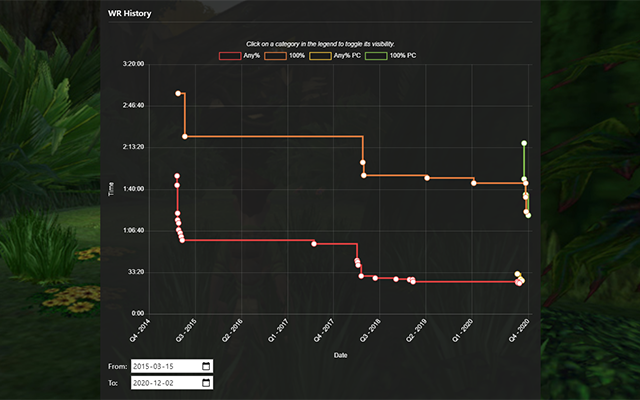
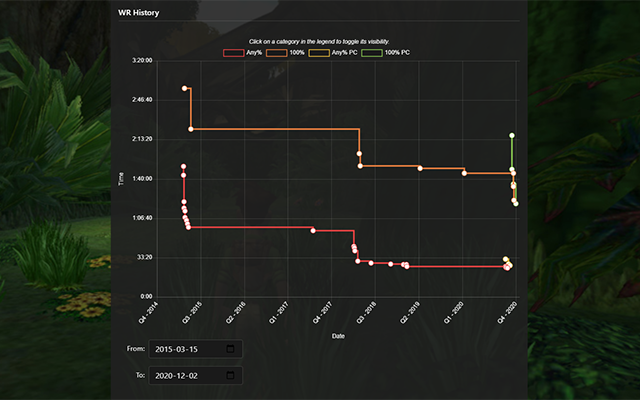
Reused already existing Bootstrap style

diff --git a/contentScript.js b/contentScript.js
@@ -30,11 +30,22 @@ var actualCode = '(' + function () {
 
   const zoomDateForm = htmlToElement(
     `<div>
-      <label for="wrChart-from" style="width: 40px">From: </label>
-      <input id="wrChart-from" onchange="onWrChartFromToChange()" type="date">
-      <br />
-      <label for="wrChart-to" style="width: 40px">To: </label>
-      <input id="wrChart-to" onchange="onWrChartFromToChange()" type="date">
+      <div class="form-group row">
+        <div class="col-2 col-md-1 text-right col-label-padding">
+          <label for="wrChart-from">From: </label>
+        </div>
+        <div>
+          <input id="wrChart-from" class="form-control" onchange="onWrChartFromToChange()" type="date">
+        </div>
+      </div>
+      <div class="form-group row">
+        <div class="col-2 col-md-1 text-right col-label-padding">
+          <label for="wrChart-to">To: </label>
+        </div>
+        <div>
+          <input id="wrChart-to" class="form-control" onchange="onWrChartFromToChange()" type="date">
+        </div>
+      </div>
     </div>`
   );
 
